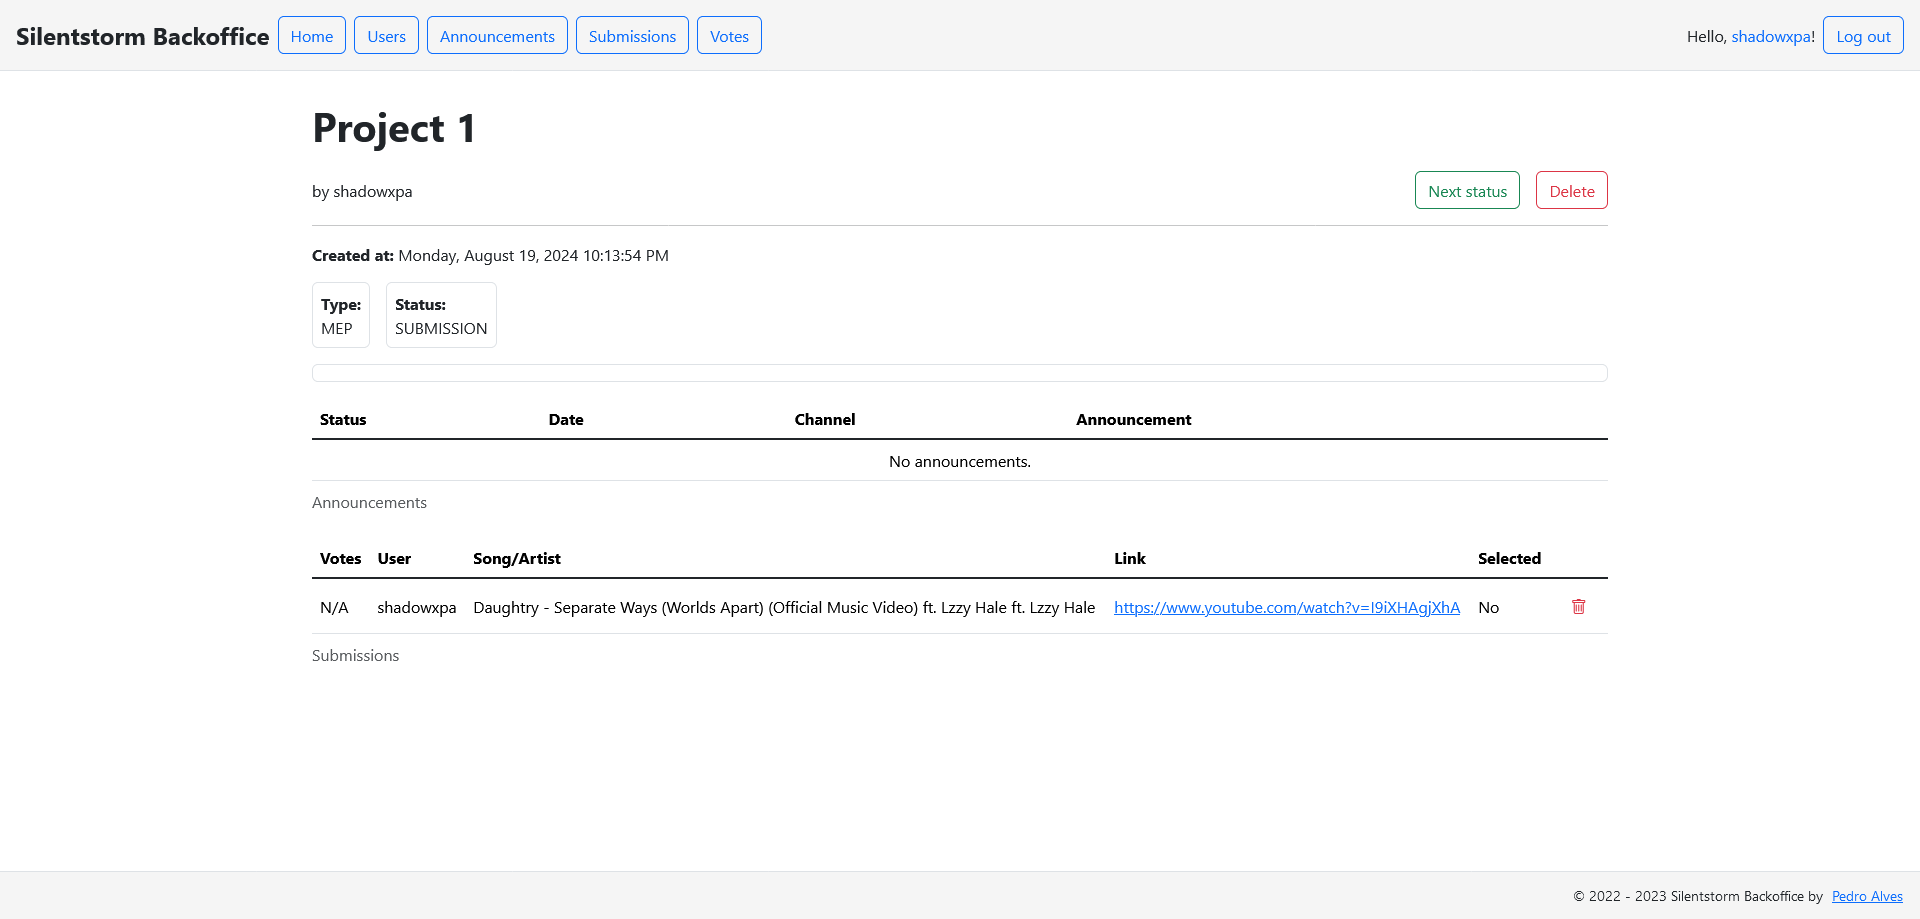
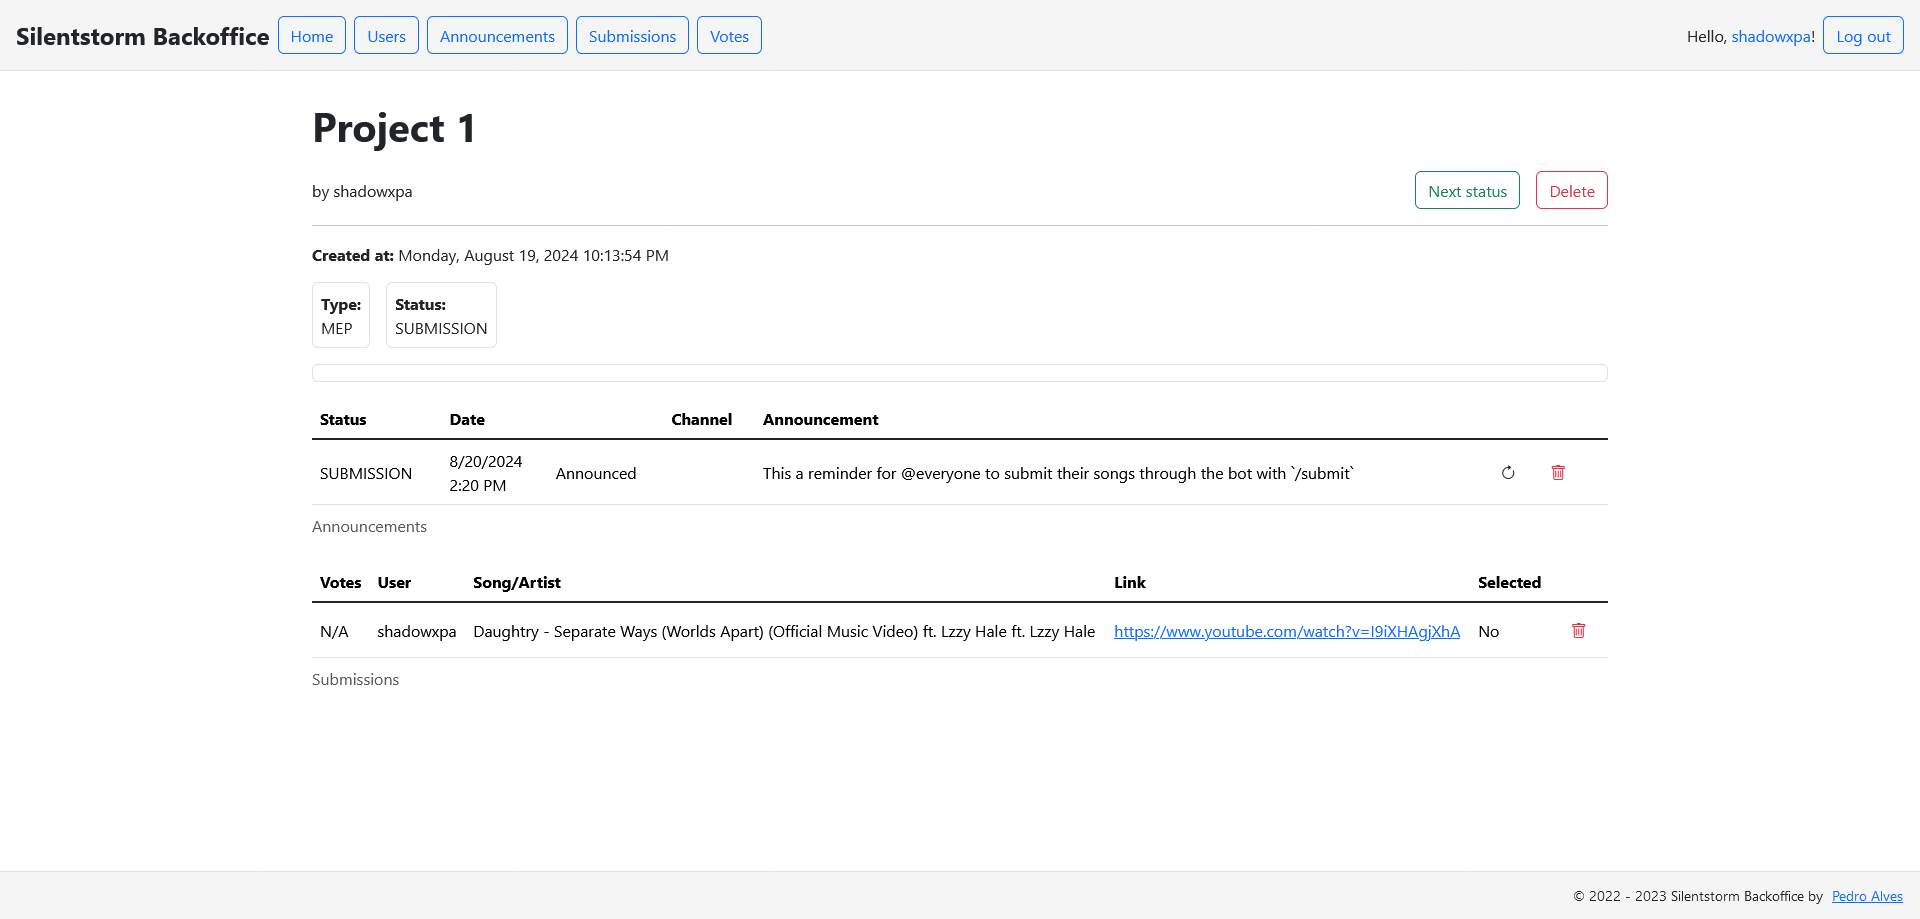
Update README

diff --git a/README.md b/README.md
@@ -1,2 +1,67 @@
 # Silentstorm
-Fanvid Studio management tools
+
+Fanvid Studio management tools.
+
+## Silentstorm Backoffice
+
+<img src="resources/Screenshot-5.png" alt="Main page" width="1000"/>
+<img src="resources/Screenshot-6.png" alt="Project page" width="1000"/>
+
+The backoffice lets you view your projects, create projects, create project announcements, add song submissions, add song votes, manage users, etc.  
+
+## Silentstorm Discord Bot
+
+<img src="resources/Screenshot-2.png" alt="Main page" width="1000"/>
+<img src="resources/Screenshot-3.png" alt="Main page" width="1000"/>
+<img src="resources/Screenshot-7.png" alt="Main page" width="1000"/>
+<img src="resources/Screenshot-4.png" alt="Main page" width="1000"/>
+
+The discord bot lets you register and unregister channels for announcements, and submit songs for projects.  
+
+## Running the applications
+
+Download the [`.NET Core 6 Runtime`](https://dotnet.microsoft.com/en-us/download/dotnet/6.0) to be able to run the applications.  
+Download the latest version available on the [Releases](https://github.com/ShadowXPA/silentstorm/releases) tab.  
+
+### Database and Lavalink
+
+You will need a [MySQL](https://www.mysql.com/) database and [Lavalink](https://github.com/lavalink-devs/Lavalink) **version 3** to run these applications successfully.
+If you have [Docker](https://www.docker.com/) installed, there is a `docker-compose.yml` with both MySQL and Lavalink. Edit it to your liking.  
+
+### Silentstorm Backoffice
+
+Before running the backoffice application, edit the `backoffice.json` configuration file.  
+To run the backoffice, simply run the `Backoffice.exe` (for Windows) or `./Backoffice` (for Linux).  
+The application should start on [`https://localhost:5001`](https://localhost:5001).
+
+### Silentstorm Discord Bot
+
+Before running the discord bot, edit the `discordbot.json` configuration file. And do not forget to add your bot's token.  
+If you do not have a token, head over to the [Discord Developers](https://discord.com/developers) page, create an application, and on the `Bot`'s tab you can grab a `Token`.
+To run the bot, simply run the `DiscordBot.exe` (for Windows) or `./DiscordBot` (for Linux).  
+
+## Future work
+
+This project is lacking in a lot of features, namely security features.
+It is not production ready!
+It is best for personal use, with limited access to the backoffice.  
+
+Below are some features that could be integrated.  
+
+### Silentstorm Backoffice
+
+- Roles (Admin, Member, Editor, etc.)
+- Associate members to projects
+- Public/Private projects
+- Allow members to submit their parts (either a link or a file)
+- Profiles for each member, with their public projects
+- Pagination on the various pages
+
+### Silentstorm Discord Bot
+
+- Automatic discord role creation
+- Automatic discord role assignments
+- Join project command
+- Submit parts ([unlisted] YouTube links?)
+- Automatically create public/private threads for each project
+- Alter the submit command to allow for per project song submission
